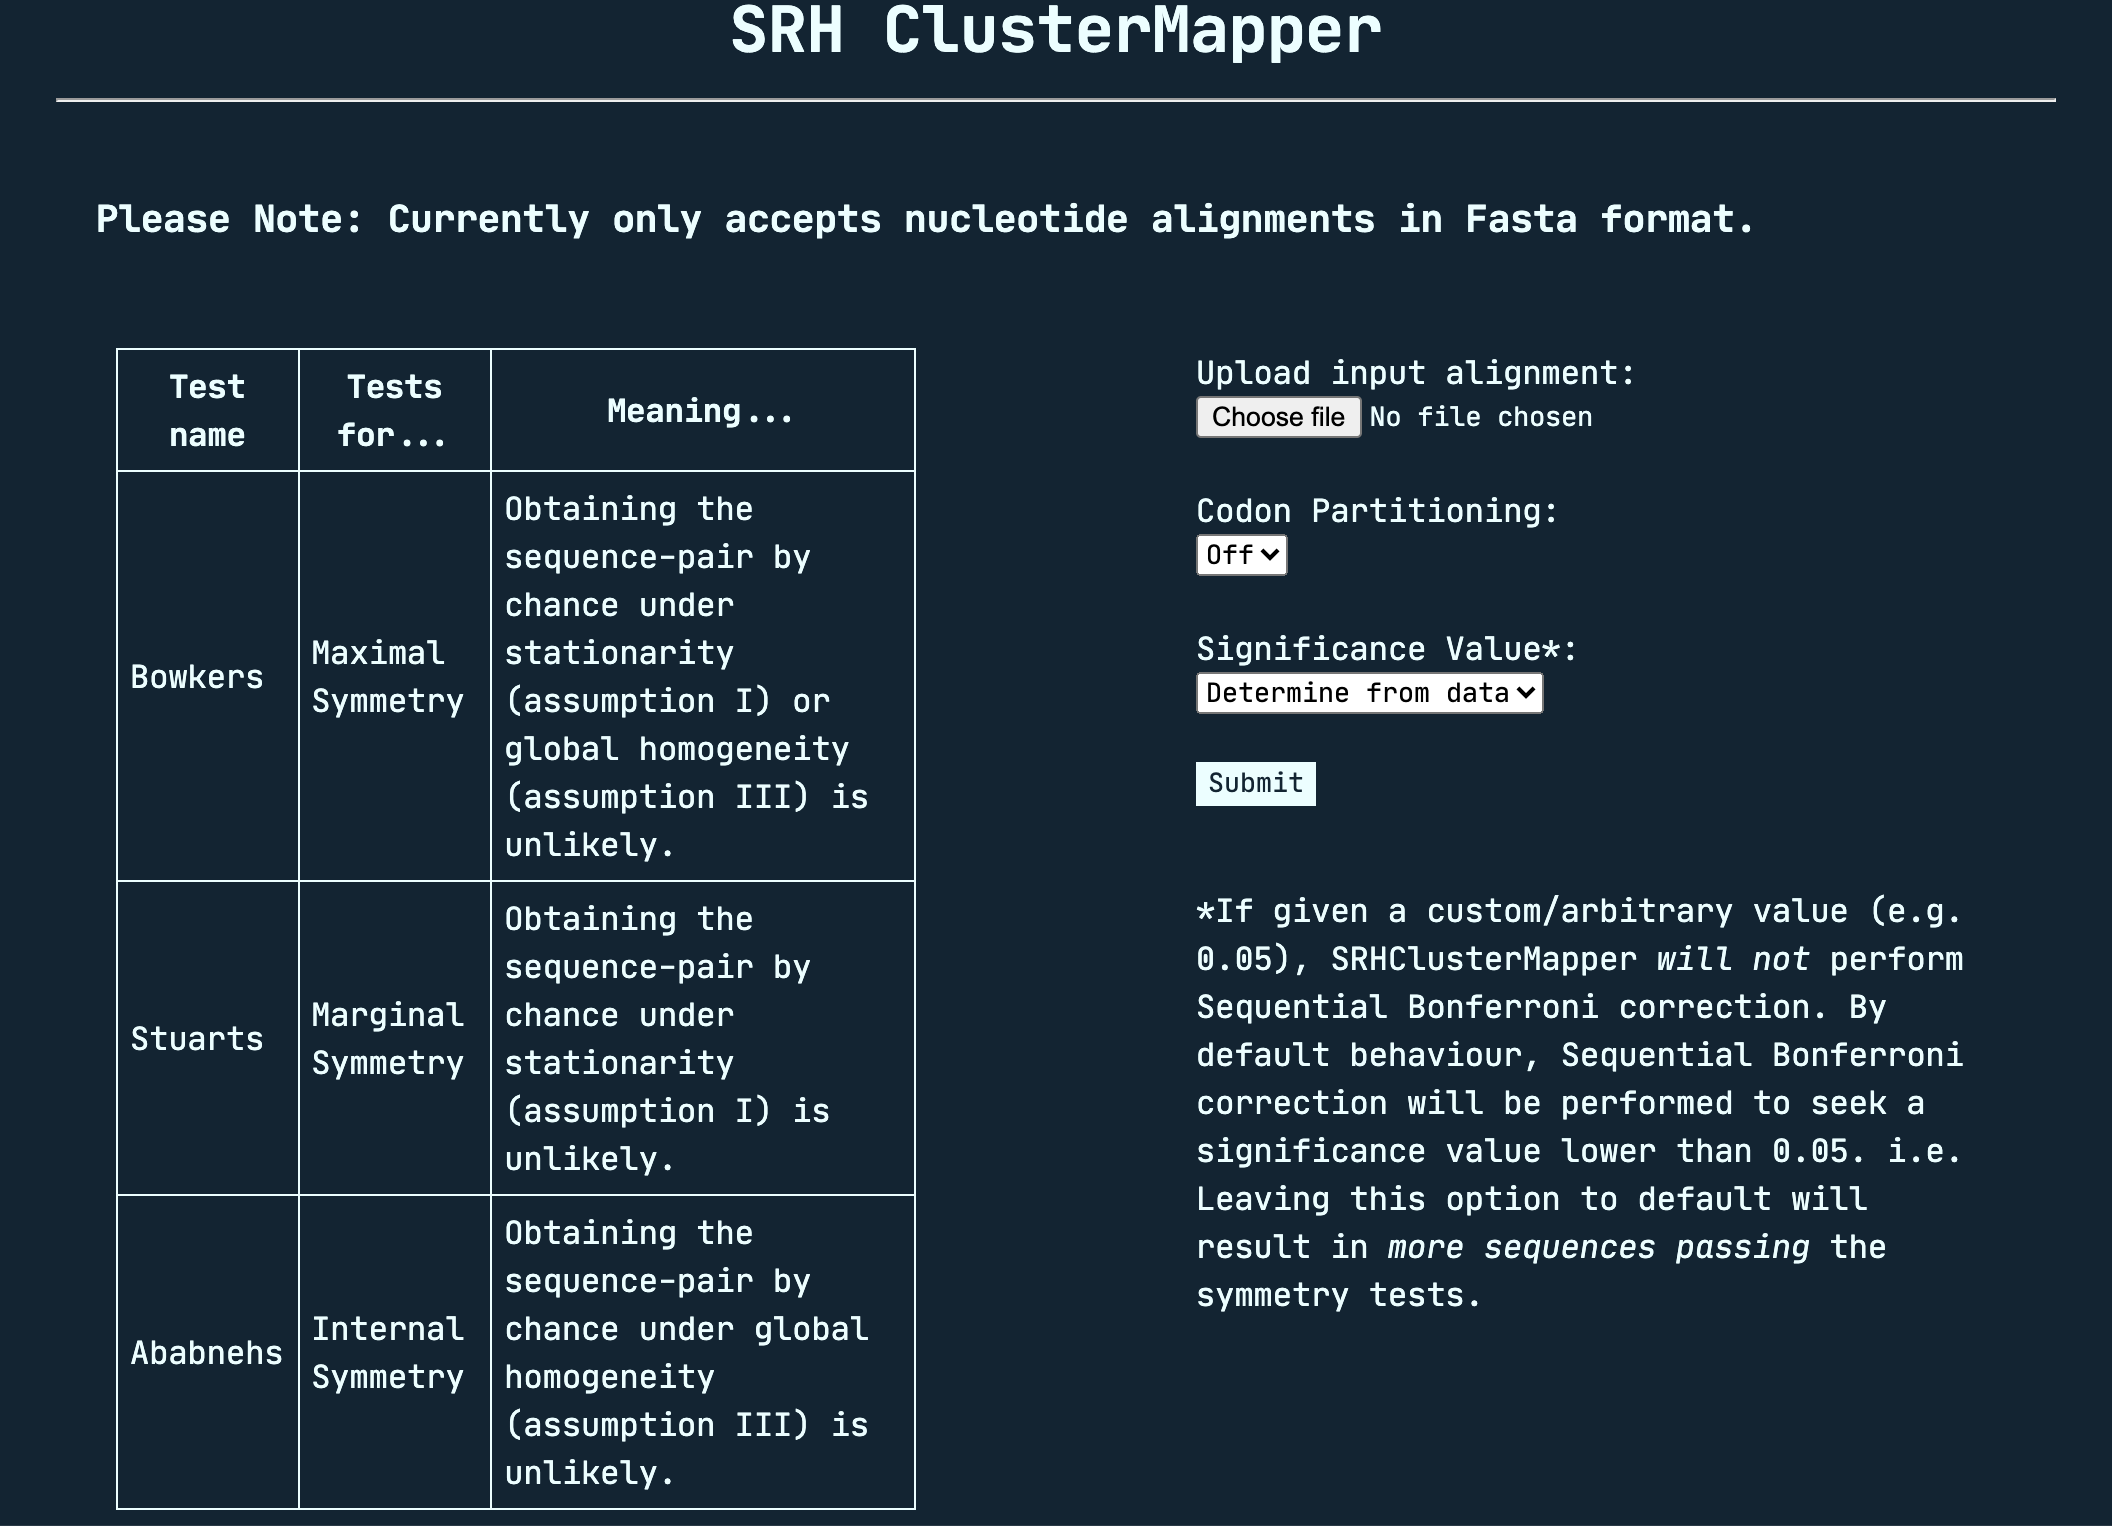
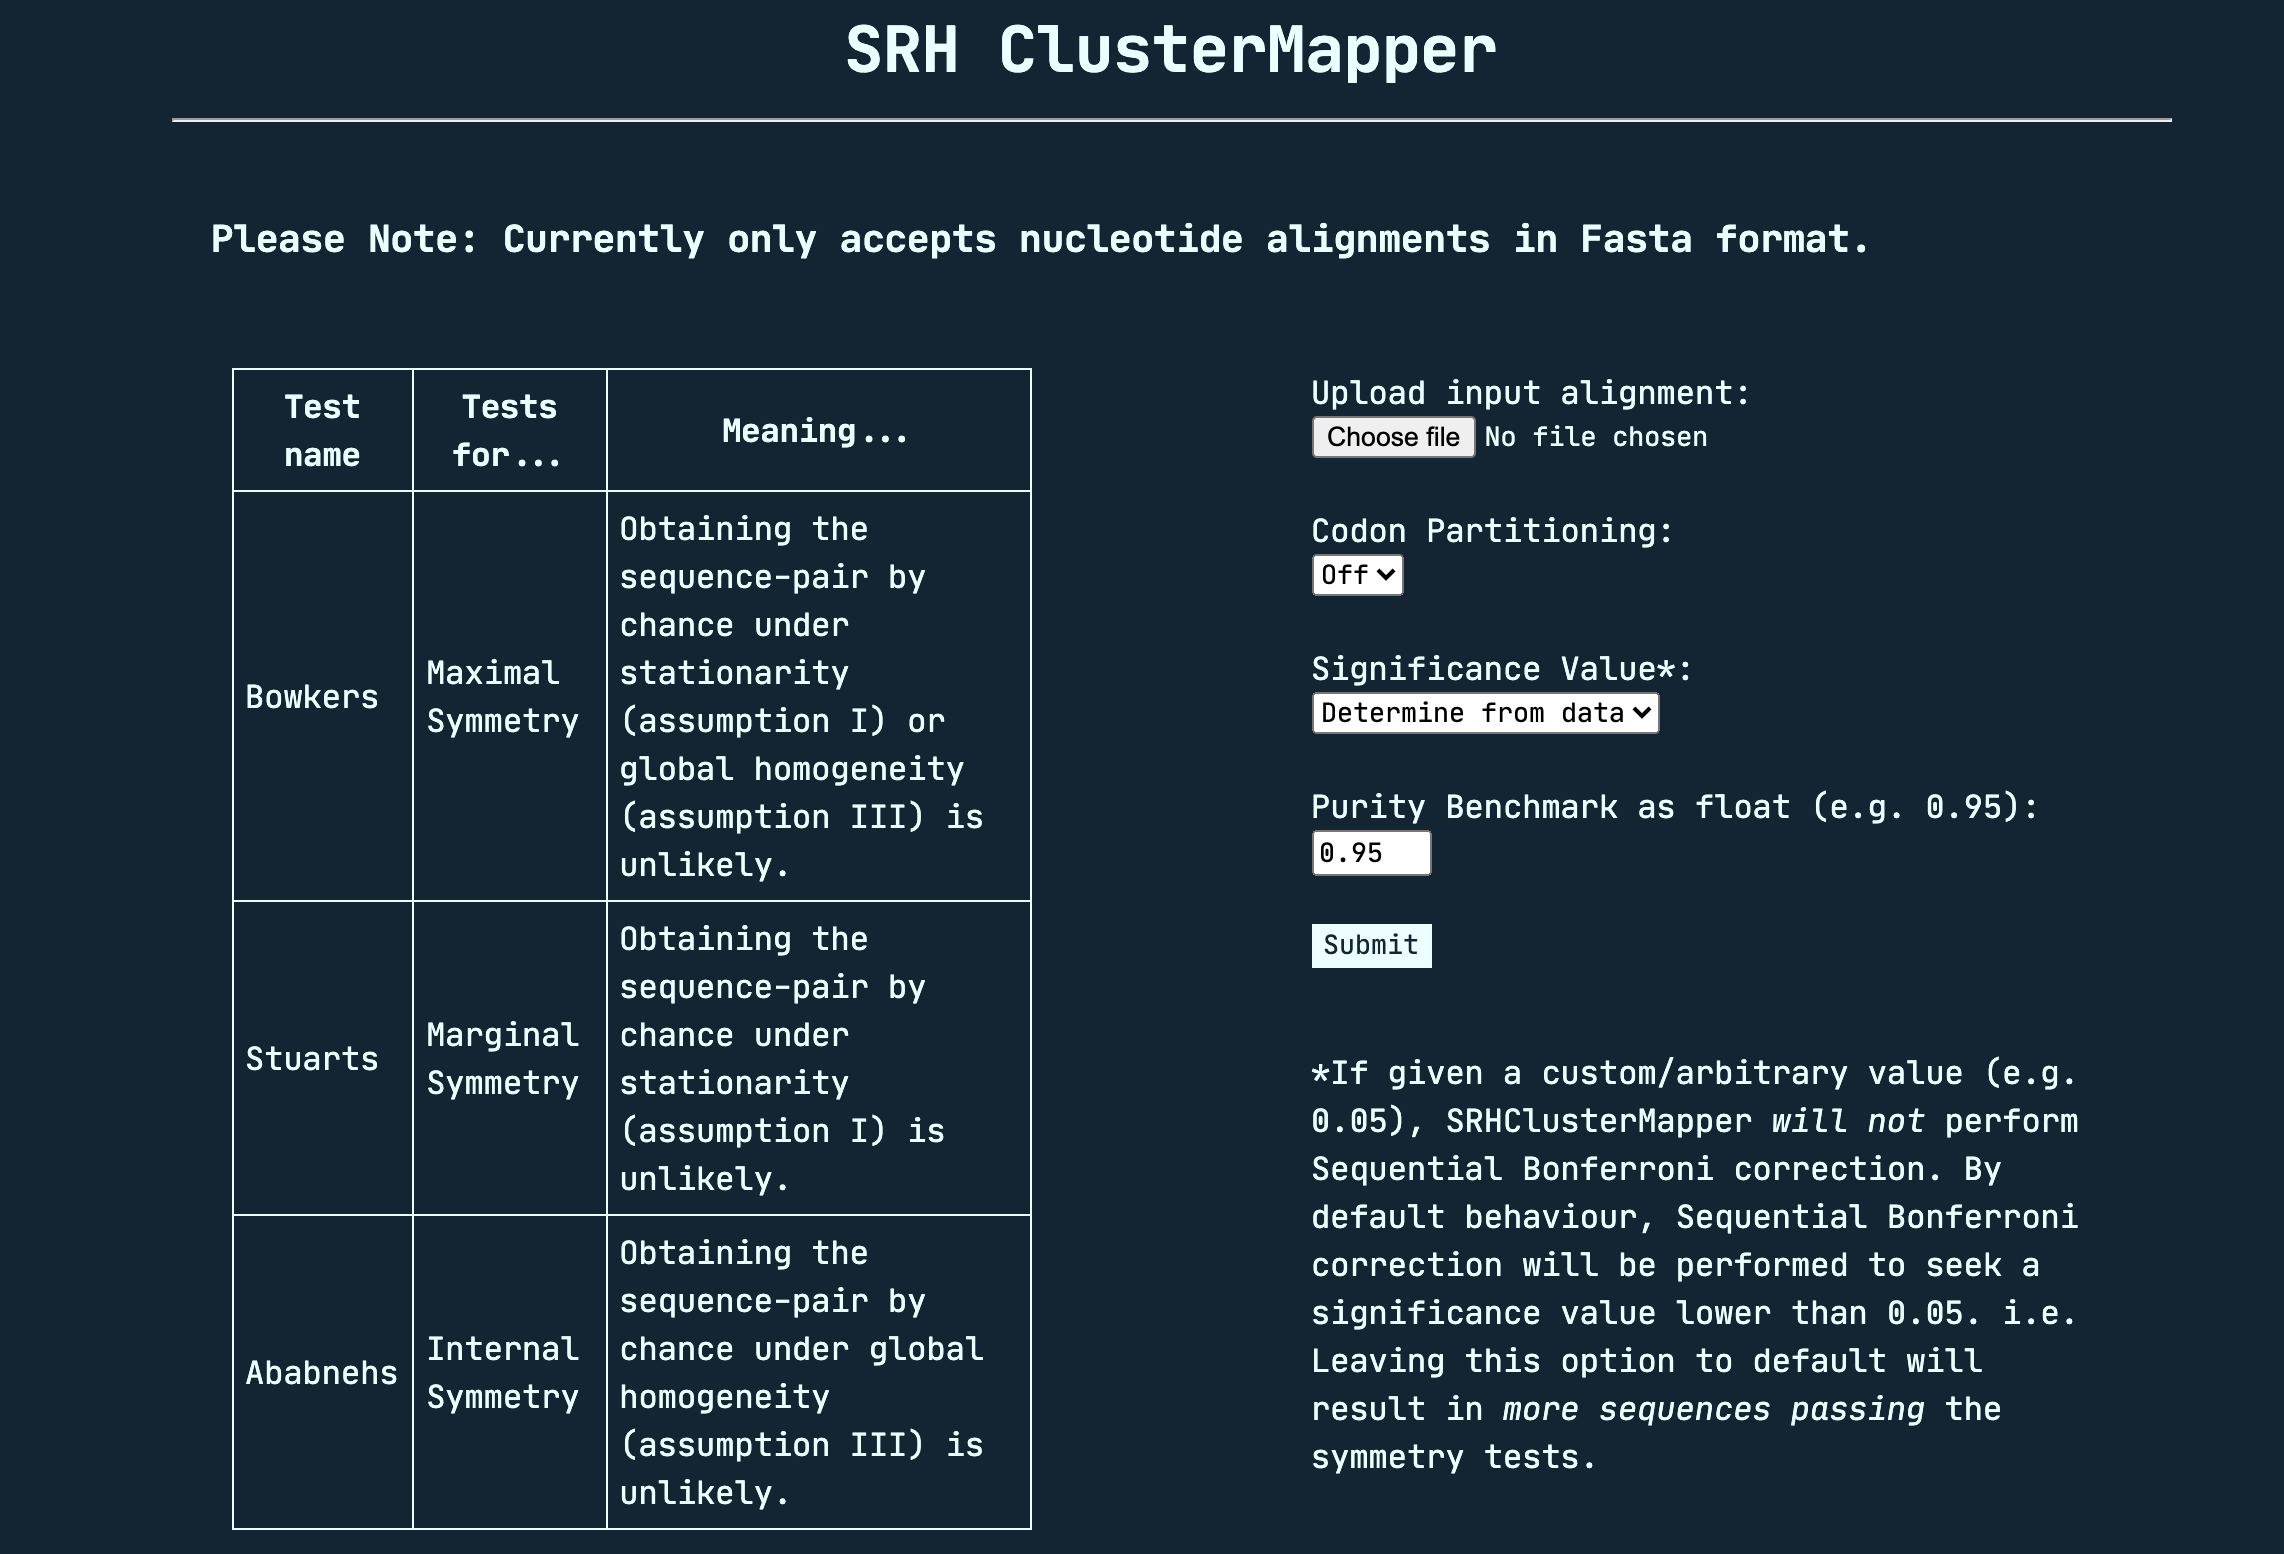
Update web

diff --git a/public/templates/index.html b/public/templates/index.html
@@ -50,6 +50,8 @@
 	<option value="0">Determine from data</option>
 	<option value="0.05">0.05</option>
       </select><br>
+      <label>Purity Benchmark as float (e.g. 0.95):</label>
+      <input type="number" name="Benchmark" min="0.0" max="1.0" step = "0.01"><br>
       <input type="submit" class="button">
     </form><br/>
 

diff --git a/public/controller.py b/public/controller.py
@@ -79,7 +79,8 @@ def upload():
             i = InputPath
             p = request.form['Partition']
             a = float(request.form['Alpha'])
-
+            b = float(request.form['Benchmark'])
+            
         args = ArgsClass()
         args.p = SRHClusterMapper.str2bool(args.p)
 
